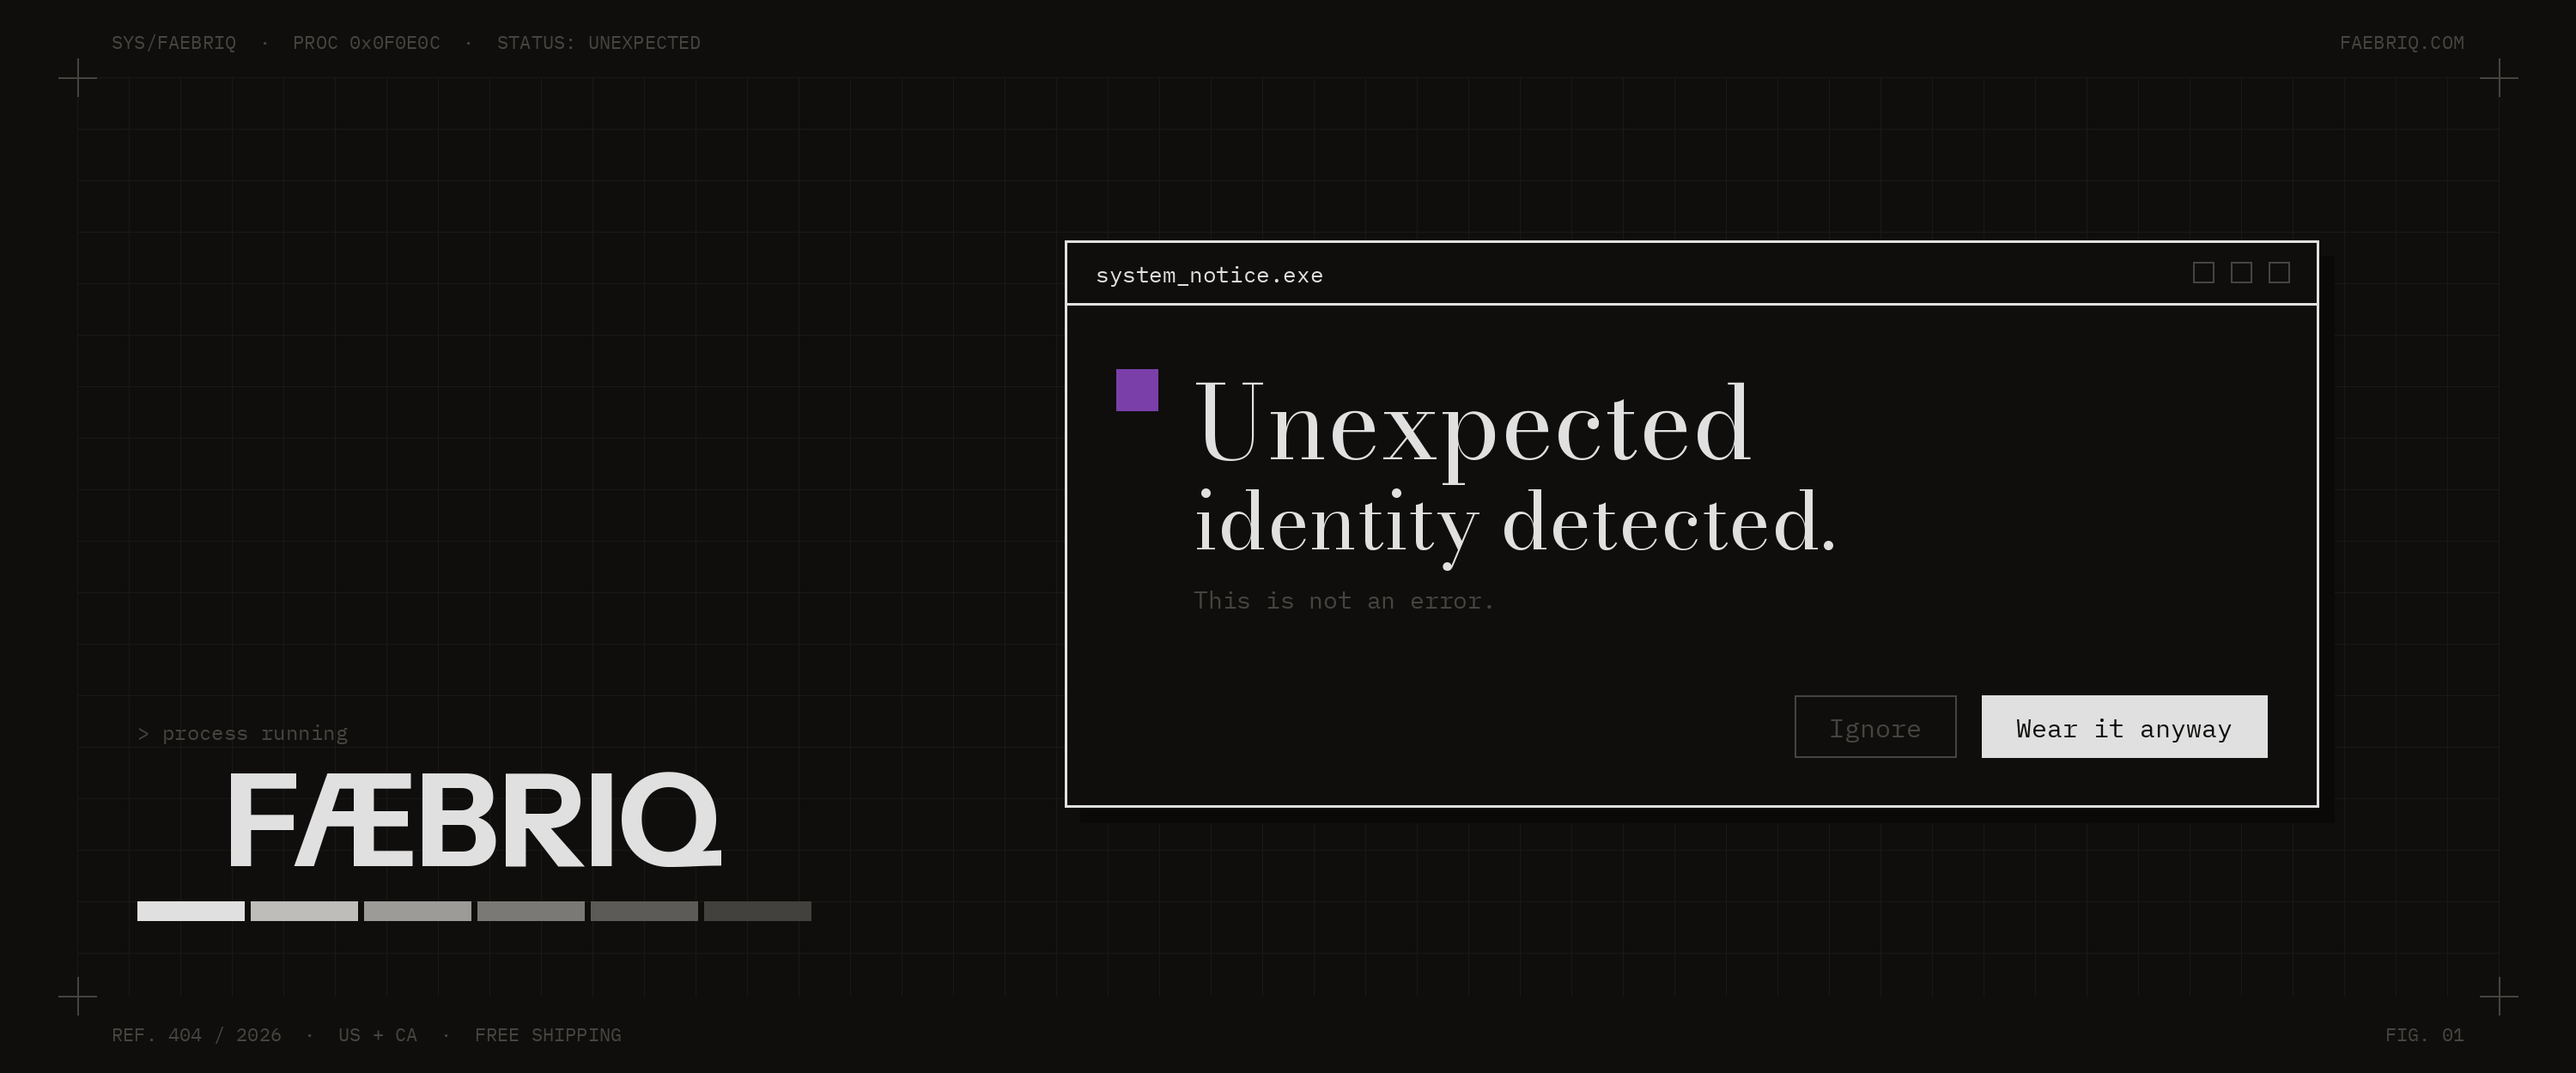
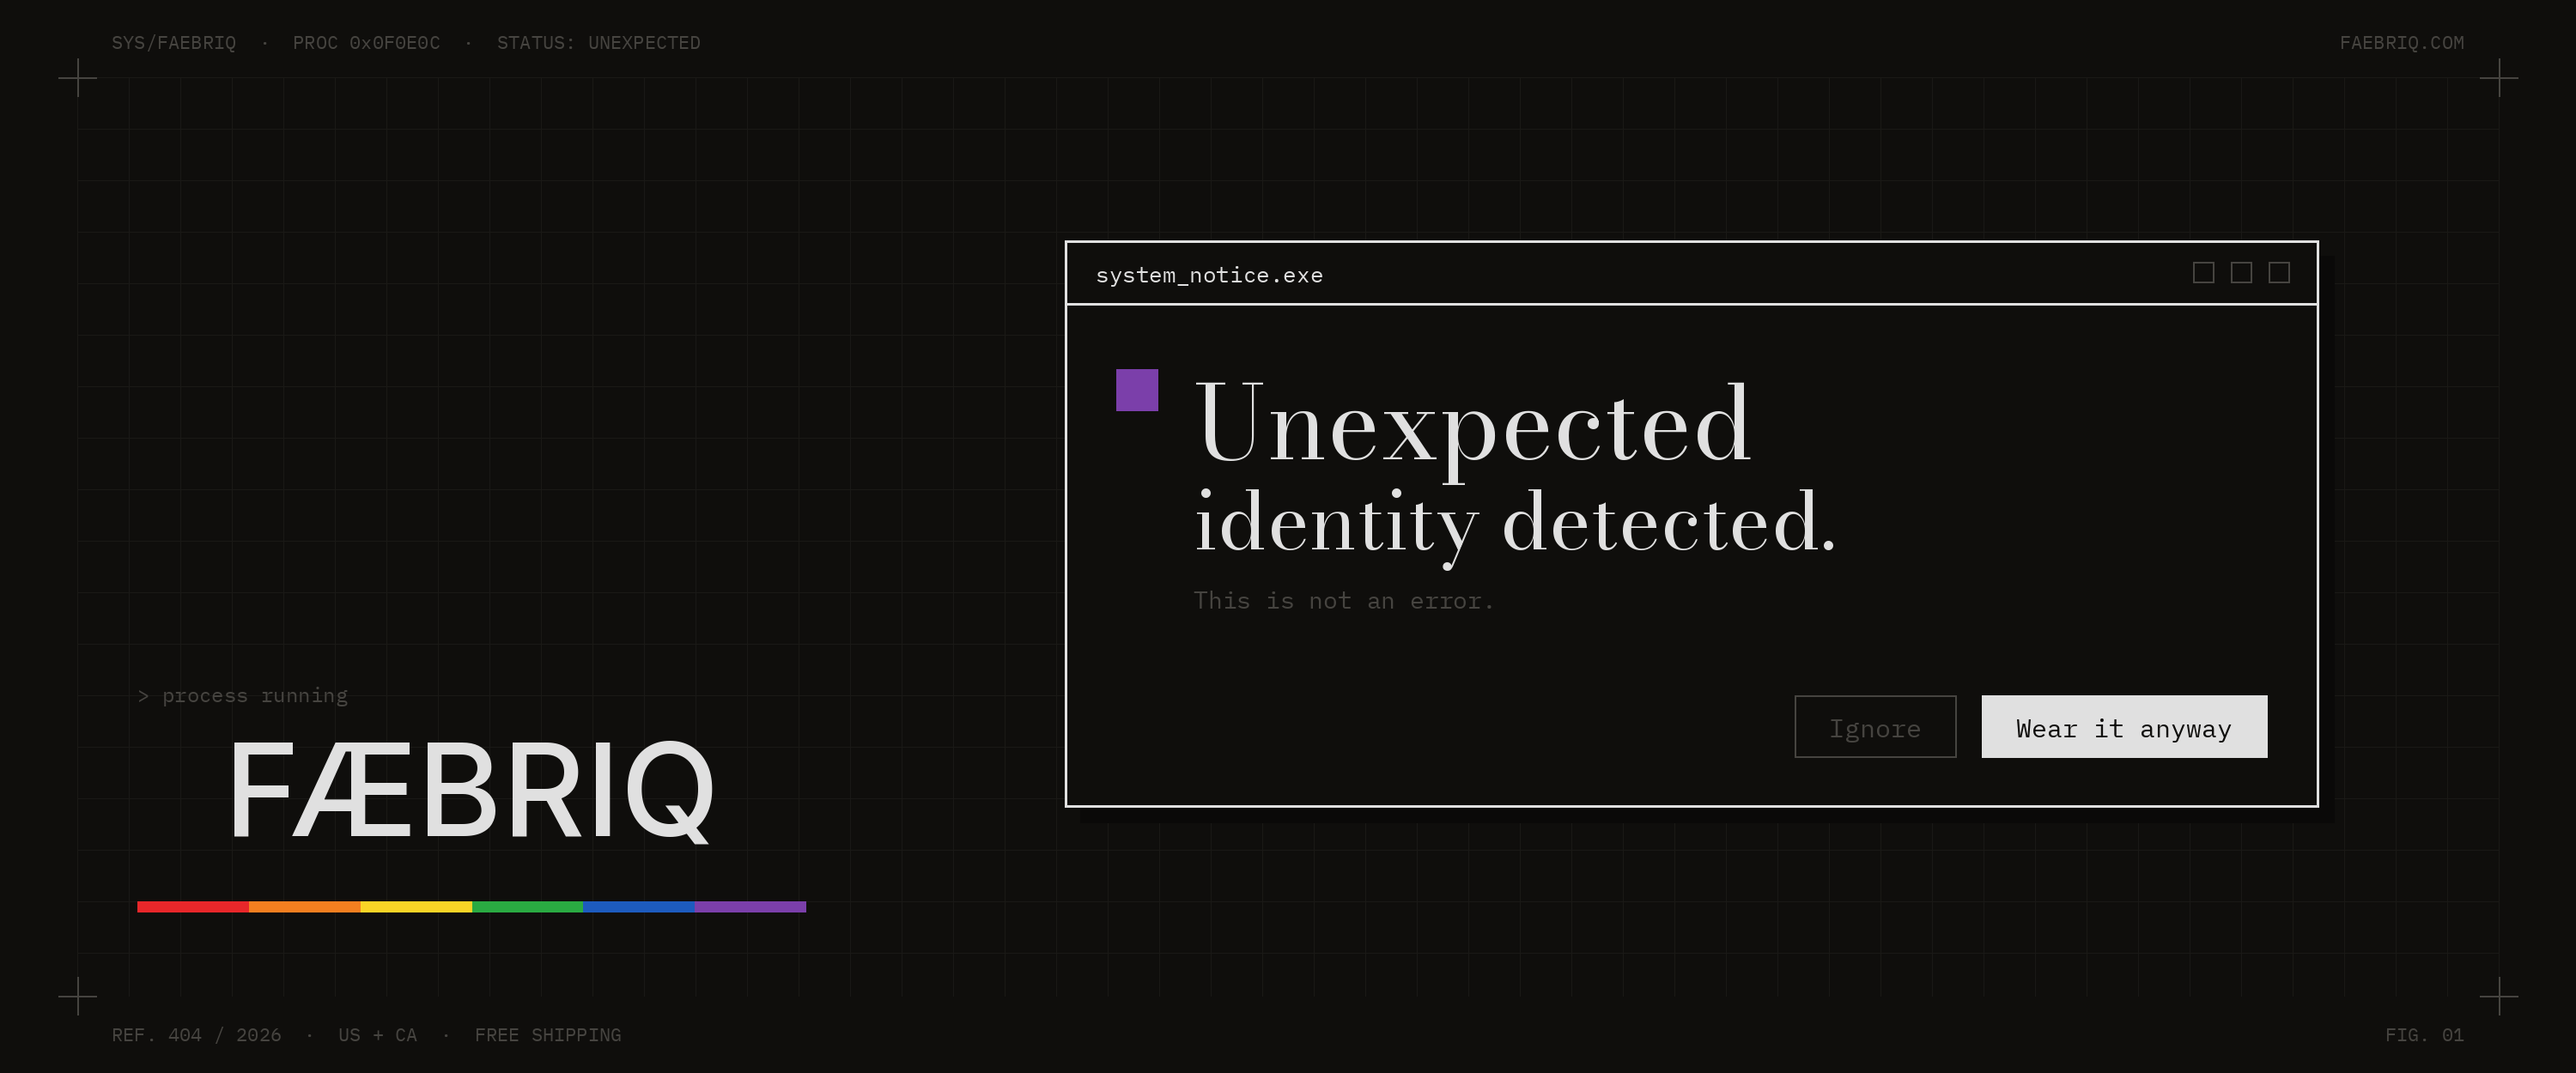
Match awareness hero wordmark and bar to brand reference
Claude-Session: https://claude.ai/code/session_013KZiKoXHp5DvZv5b8ChVtL

Changed region(s): [[0.093, 0.6864, 0.279, 0.8112], [0.031, 0.8424, 0.31, 0.8736], [0.062, 0.624, 0.093, 0.6552]]

diff --git a/assets/campaign/awareness-2026-10/render.py b/assets/campaign/awareness-2026-10/render.py
@@ -45,15 +45,15 @@ def btn(x,label,primary):
 r2='Wear it anyway'; w2=int(d.textlength(r2,font=fb))+80
 x2=dx1-60-w2; btn(x2,r2,True)
 r1='Ignore'; w1=int(d.textlength(r1,font=fb))+80; btn(x2-30-w1,r1,False)
-# sans wordmark + six-block bar at 1.35x width, greyscale so the purple stays the only accent
-fw=ImageFont.truetype(F+'InstrumentSans-Bold.ttf',150)
-wx=M+70; ww=d.textlength('FÆBRIQ',font=fw); bb=d.textbbox((0,0),'FÆBRIQ',font=fw)
-bw=ww*1.35; by0=H-M-110; th=bb[3]-bb[1]
-wy=by0-40-th-bb[1]
+# sans wordmark per assets/print-art/reference/wordmark-reference-2026-09-23.jpg,
+# gapless six-block circuit bar at 1.35x wordmark width, centered beneath
+fw=ImageFont.truetype(S+'inter0.ttf',150)
+ww=d.textlength('FÆBRIQ',font=fw); bb=d.textbbox((0,0),'FÆBRIQ',font=fw)
+bw=ww*1.35; wx=M+70; by0=H-M-110; bh=round(bw*0.016)
+th=bb[3]-bb[1]; wy=by0-int(th*0.55)-th-bb[1]
 d.text((wx+(bw-ww)/2,wy),'FÆBRIQ',font=fw,fill=FG)
-greys=[(224,224,224),(190,189,186),(156,155,151),(122,121,117),(92,91,87),(66,65,61)]
-gap=8; cw=(bw-gap*5)/6
-for i,g in enumerate(greys):
-    x=wx+i*(cw+gap); d.rectangle([x,by0,x+cw,by0+22],fill=g)
-d.text((wx,wy+bb[1]-62),'> process running',font=mono(24),fill=DIM)
+CIRCUIT=[(232,39,42),(244,127,32),(249,212,38),(42,170,66),(29,91,190),(123,63,170)]
+cw=bw/6
+for i,c in enumerate(CIRCUIT): d.rectangle([round(wx+i*cw),by0,round(wx+(i+1)*cw)-1,by0+bh],fill=c)
+d.text((wx,wy+bb[1]-70),'> process running',font=mono(24),fill=DIM)
 im.save('hero-error-state-3000x1250.png'); print(bb, th)

diff --git a/CHANGELOG.md b/CHANGELOG.md
@@ -147,3 +147,4 @@ Why: Maurice asked to verify open questions from a prior store status check befo
 Why: first voice pass came out kids-cartoon, and AI video tests showed wordmark tees and a FÄBRIQ typo that break brand rules.
 
 2026/10/01: added assets/campaign/awareness-2026-10 (Error State hero banner, philosophy, render script). Why: Step 2 of the store awareness design workflow.
+2026/10/01: awareness hero now uses the reference sans wordmark (Inter Medium stand-in) and the gapless six-colour circuit bar. Why: match wordmark-reference-2026-09-23.jpg.
